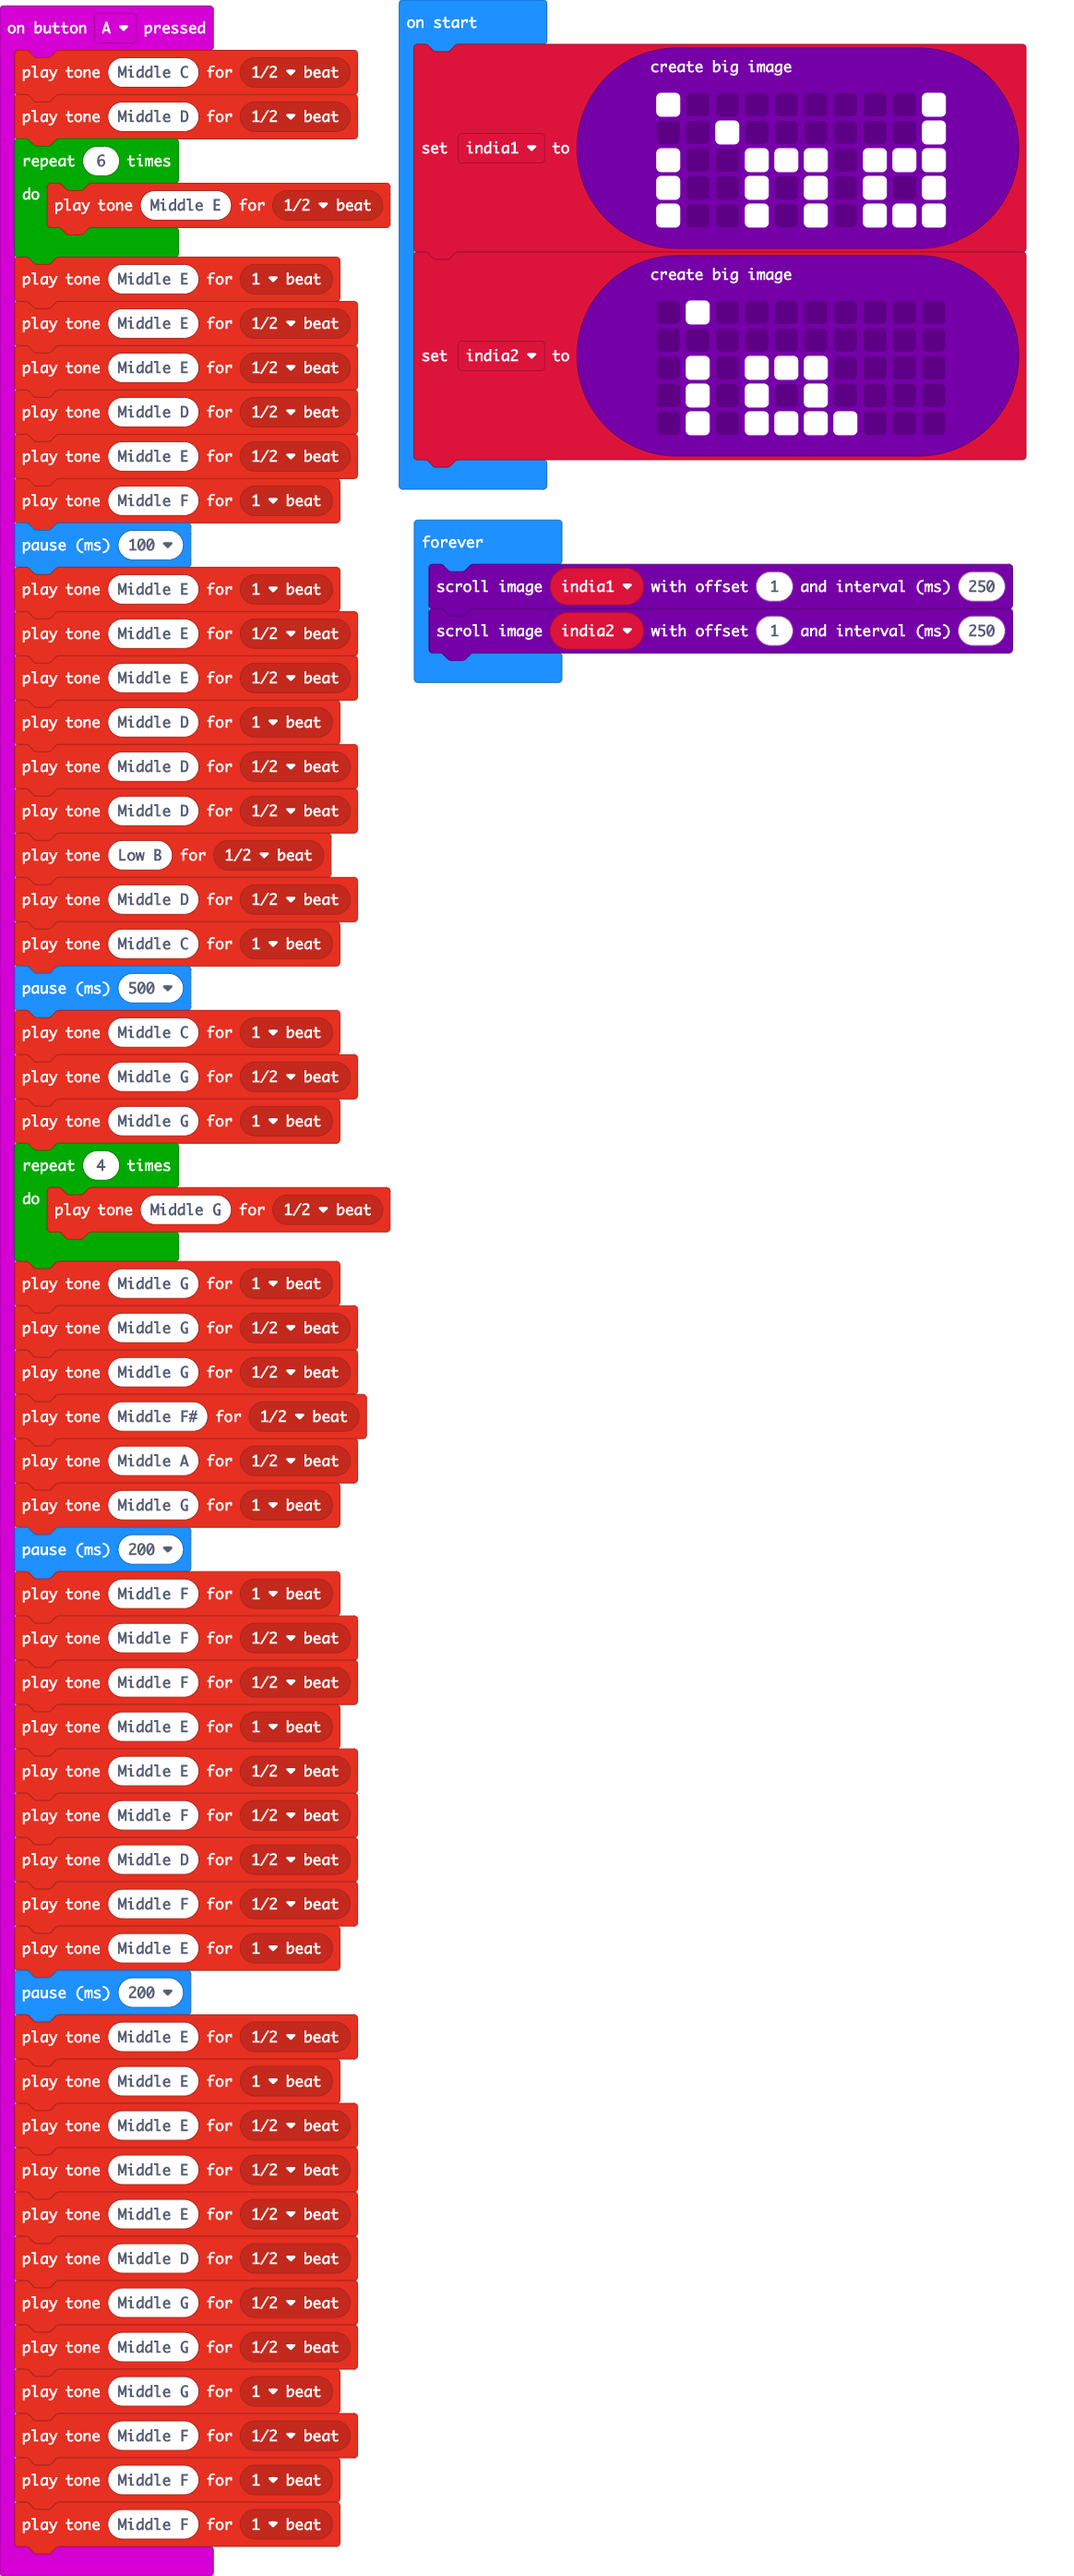
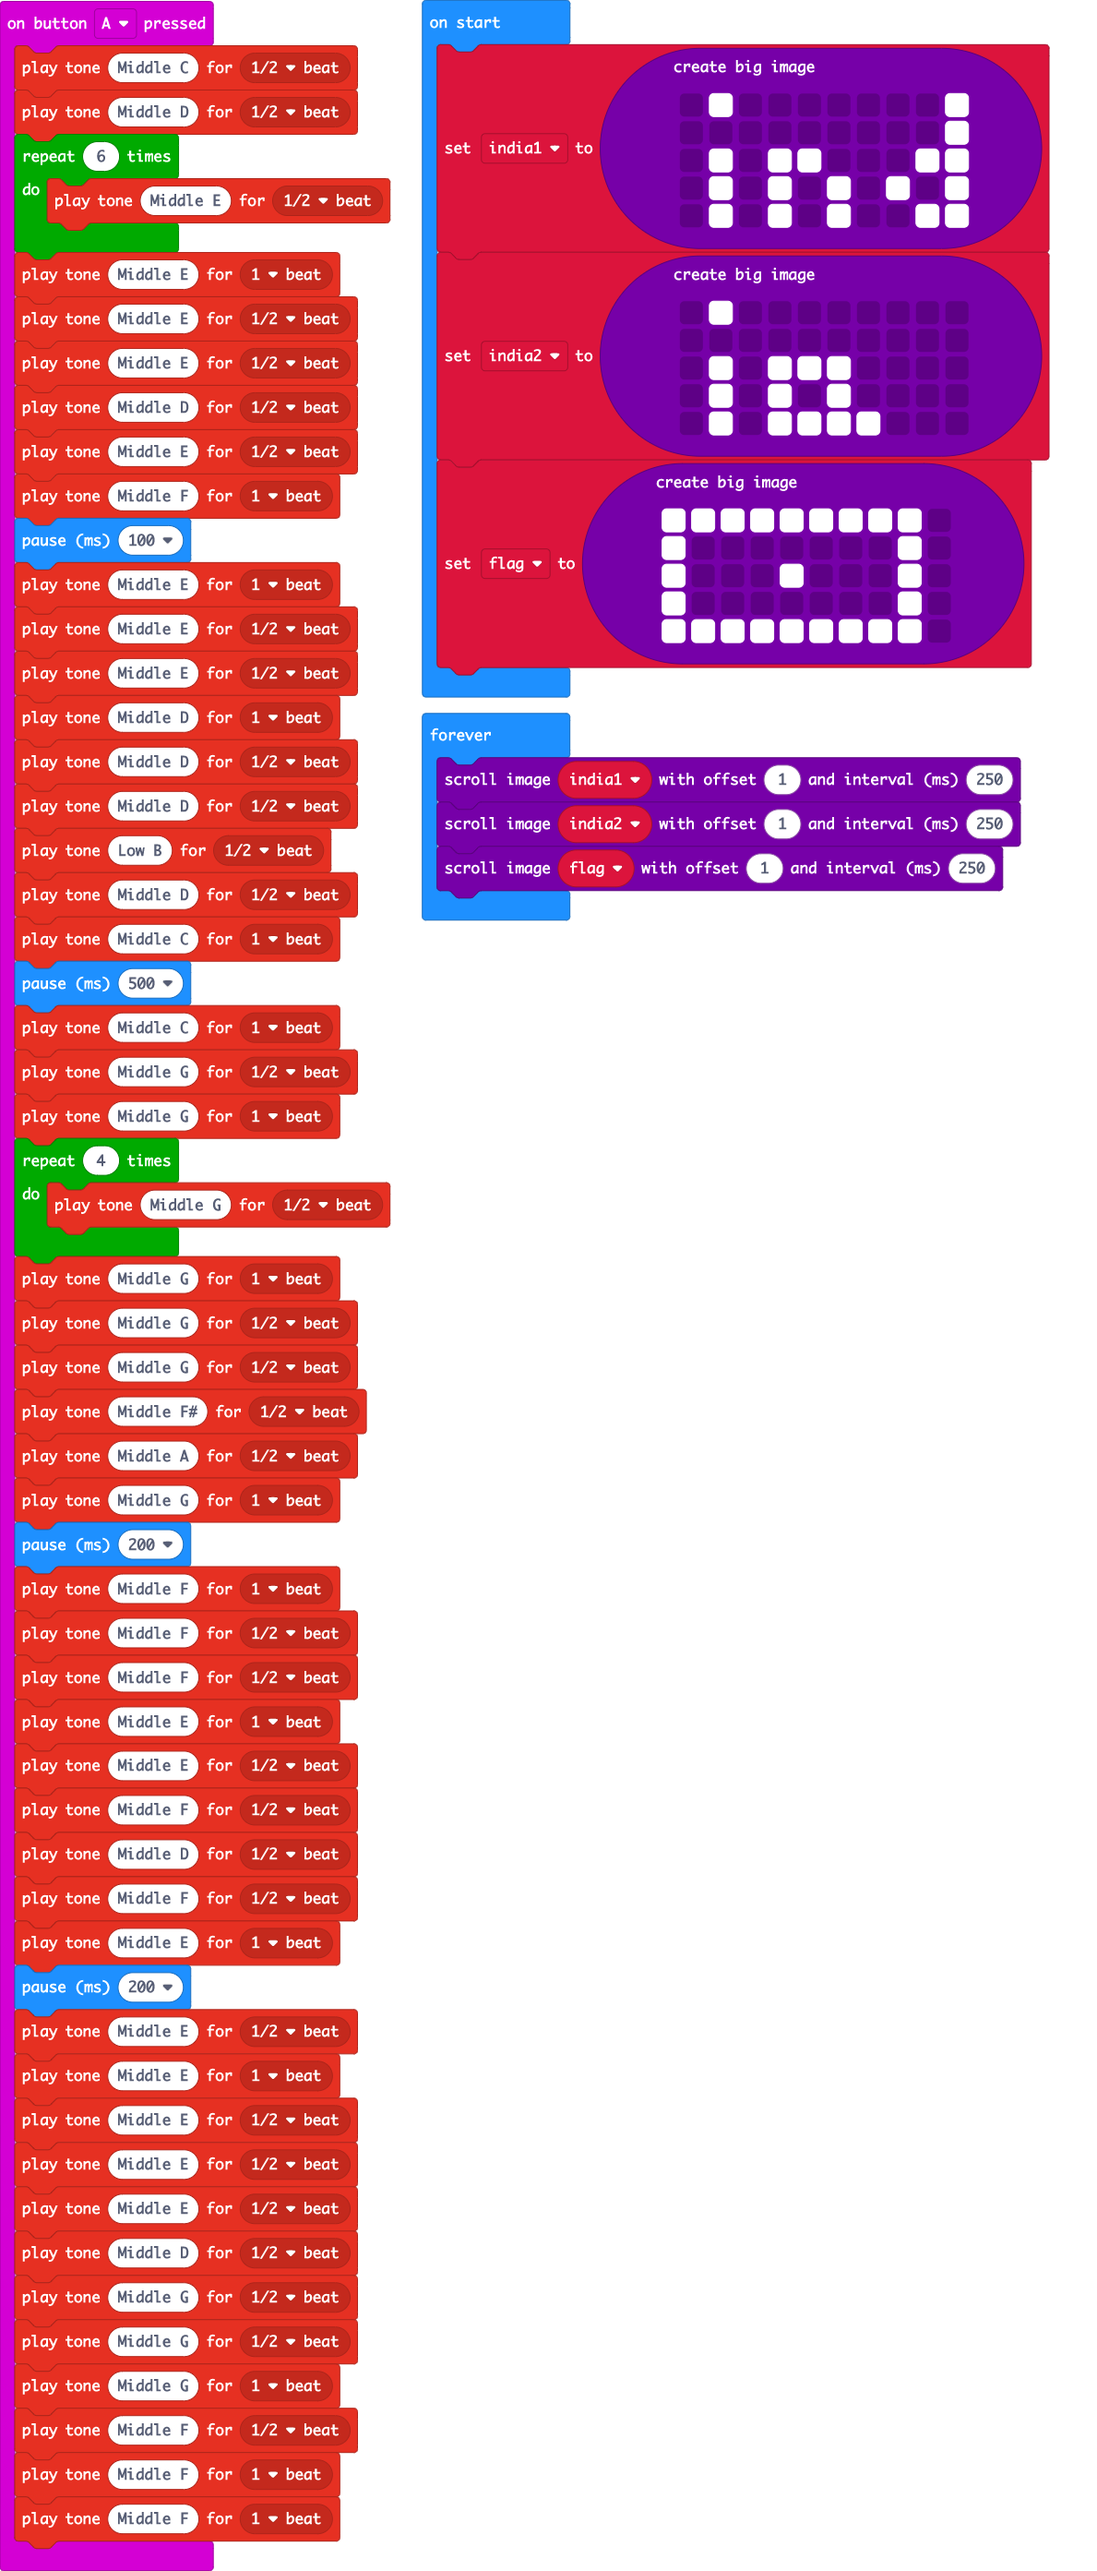
flag

Changed region(s): [[0.0, 0.0, 0.9588, 1.0], [0.4948, 0.0, 0.5258, 0.0312]]

diff --git a/main.ts b/main.ts
@@ -58,11 +58,11 @@ input.onButtonPressed(Button.A, function () {
     music.playTone(349, music.beat(BeatFraction.Whole))
 })
 let india1 = images.createBigImage(`
-    # . . . . . . . . #
-    . . # . . . . . . #
-    # . . # # # . # # #
-    # . . # . # . # . #
-    # . . # . # . # # #
+    . # . . . . . . . #
+    . . . . . . . . . #
+    . # . # # . . . # #
+    . # . # . # . # . #
+    . # . # . # . . # #
     `)
 let india2 = images.createBigImage(`
     . # . . . . . . . .
@@ -71,7 +71,15 @@ let india2 = images.createBigImage(`
     . # . # . # . . . .
     . # . # # # # . . .
     `)
+let flag = images.createBigImage(`
+    # # # # # # # # # .
+    # . . . . . . . # .
+    # . . . # . . . # .
+    # . . . . . . . # .
+    # # # # # # # # # .
+    `)
 basic.forever(function () {
     india1.scrollImage(1, 250)
     india2.scrollImage(1, 250)
+    flag.scrollImage(1, 250)
 })
